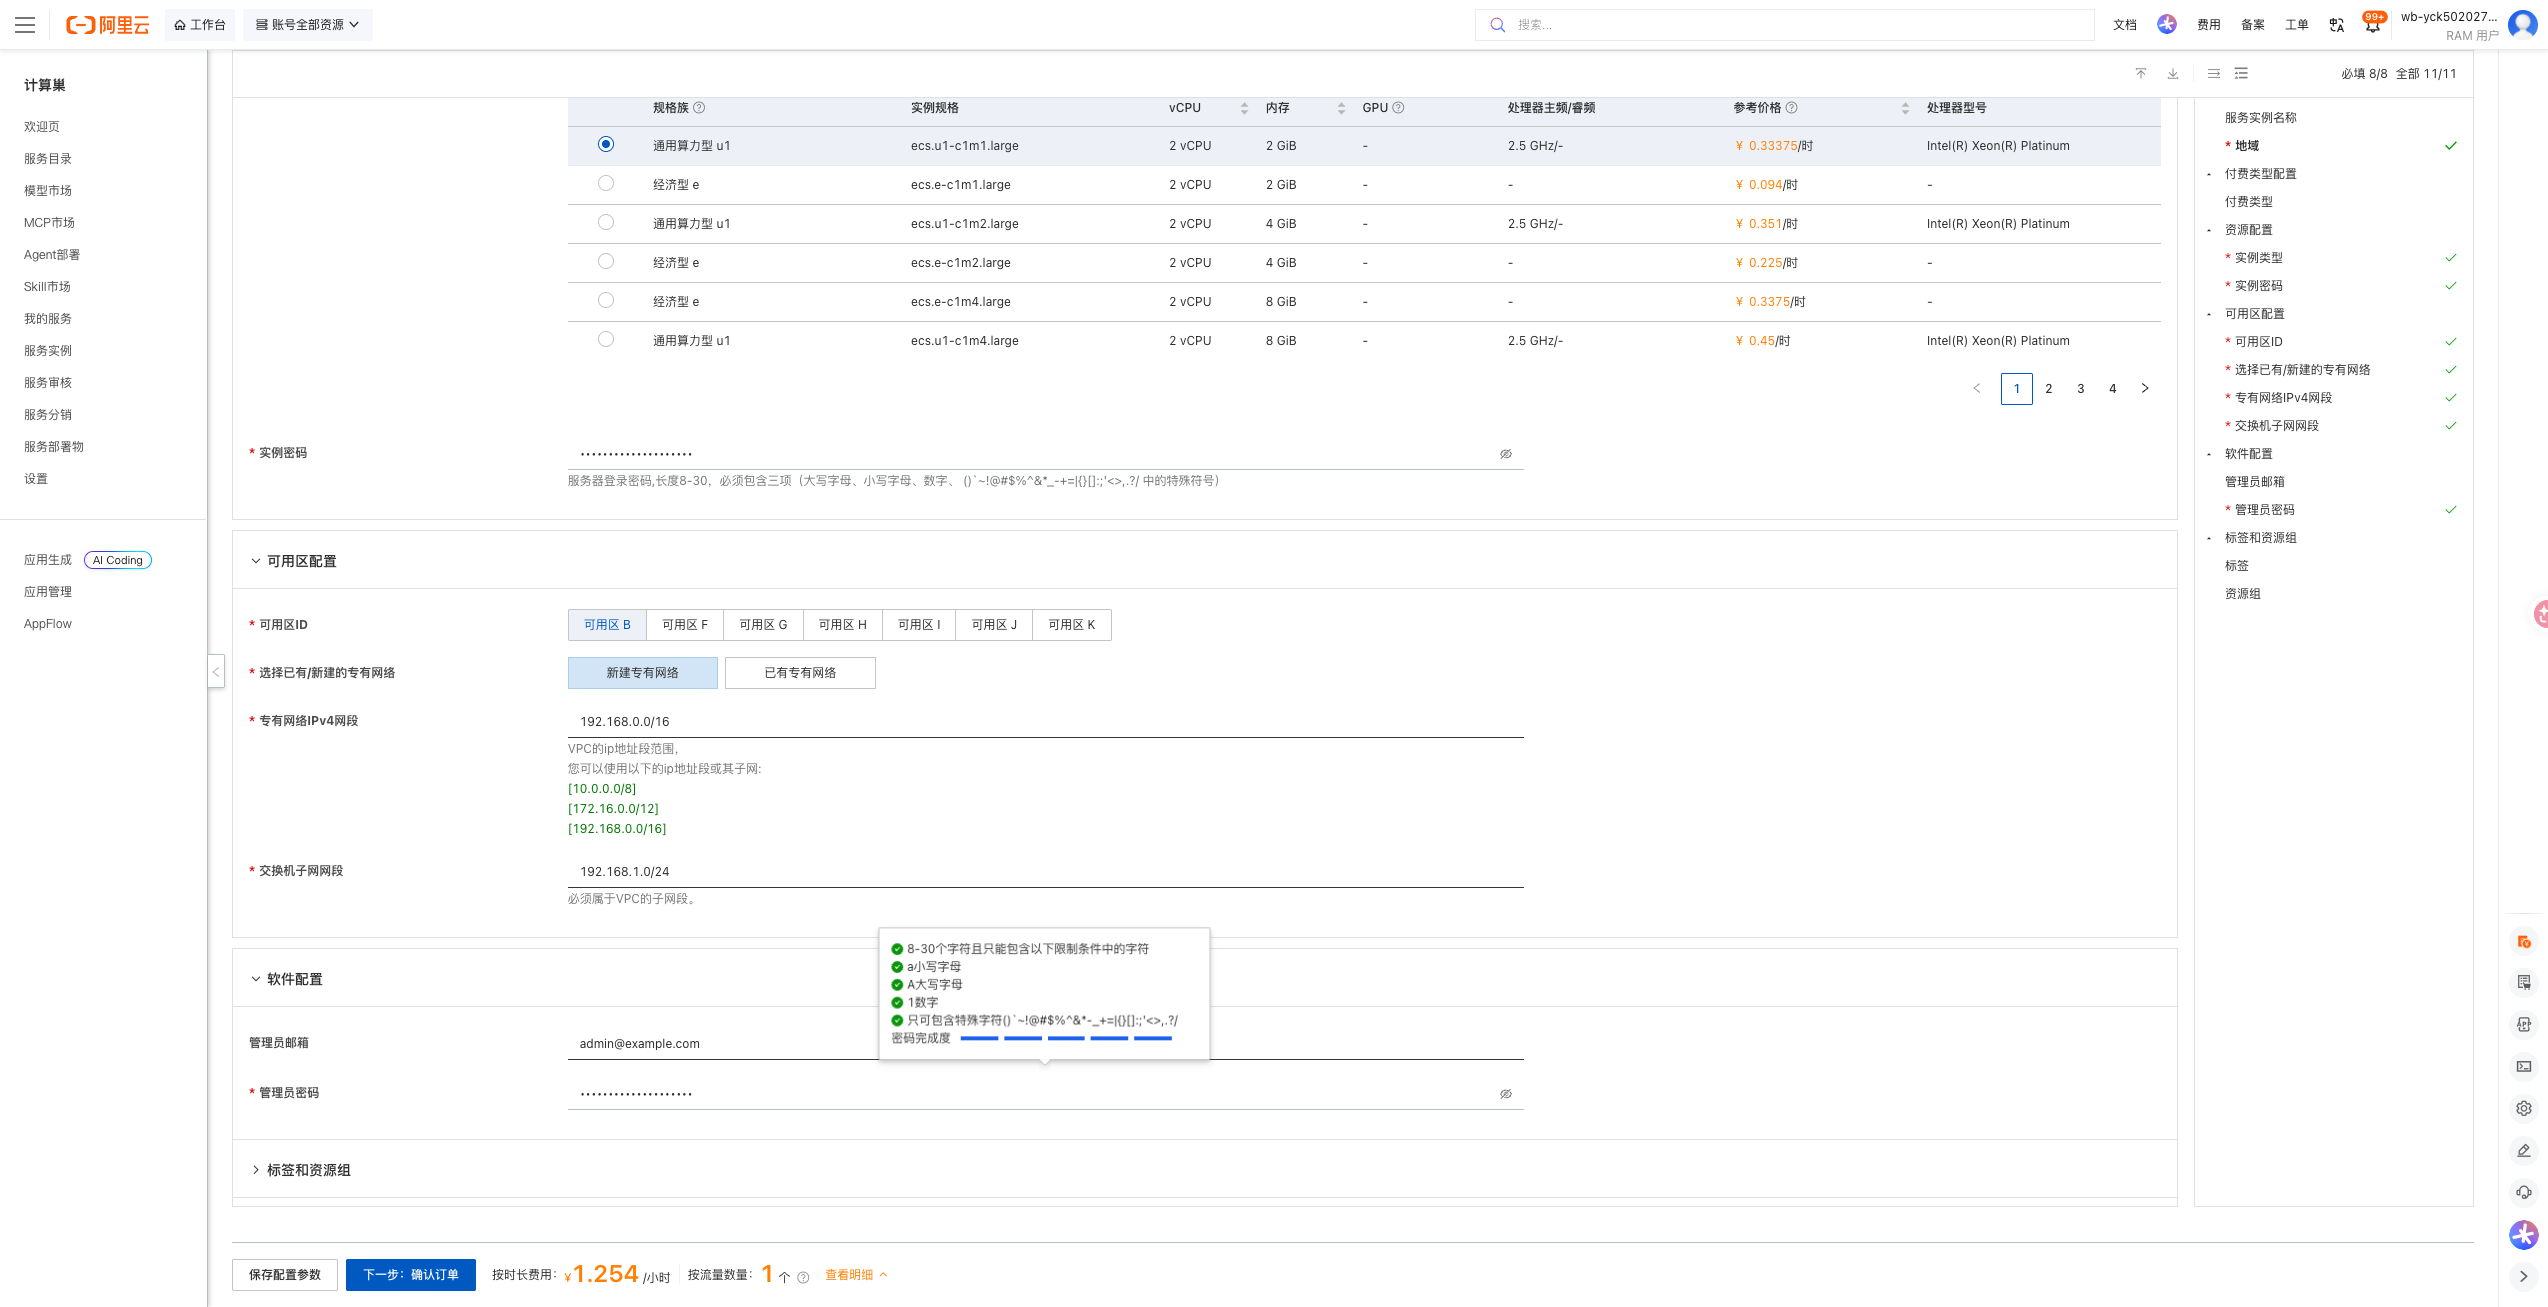
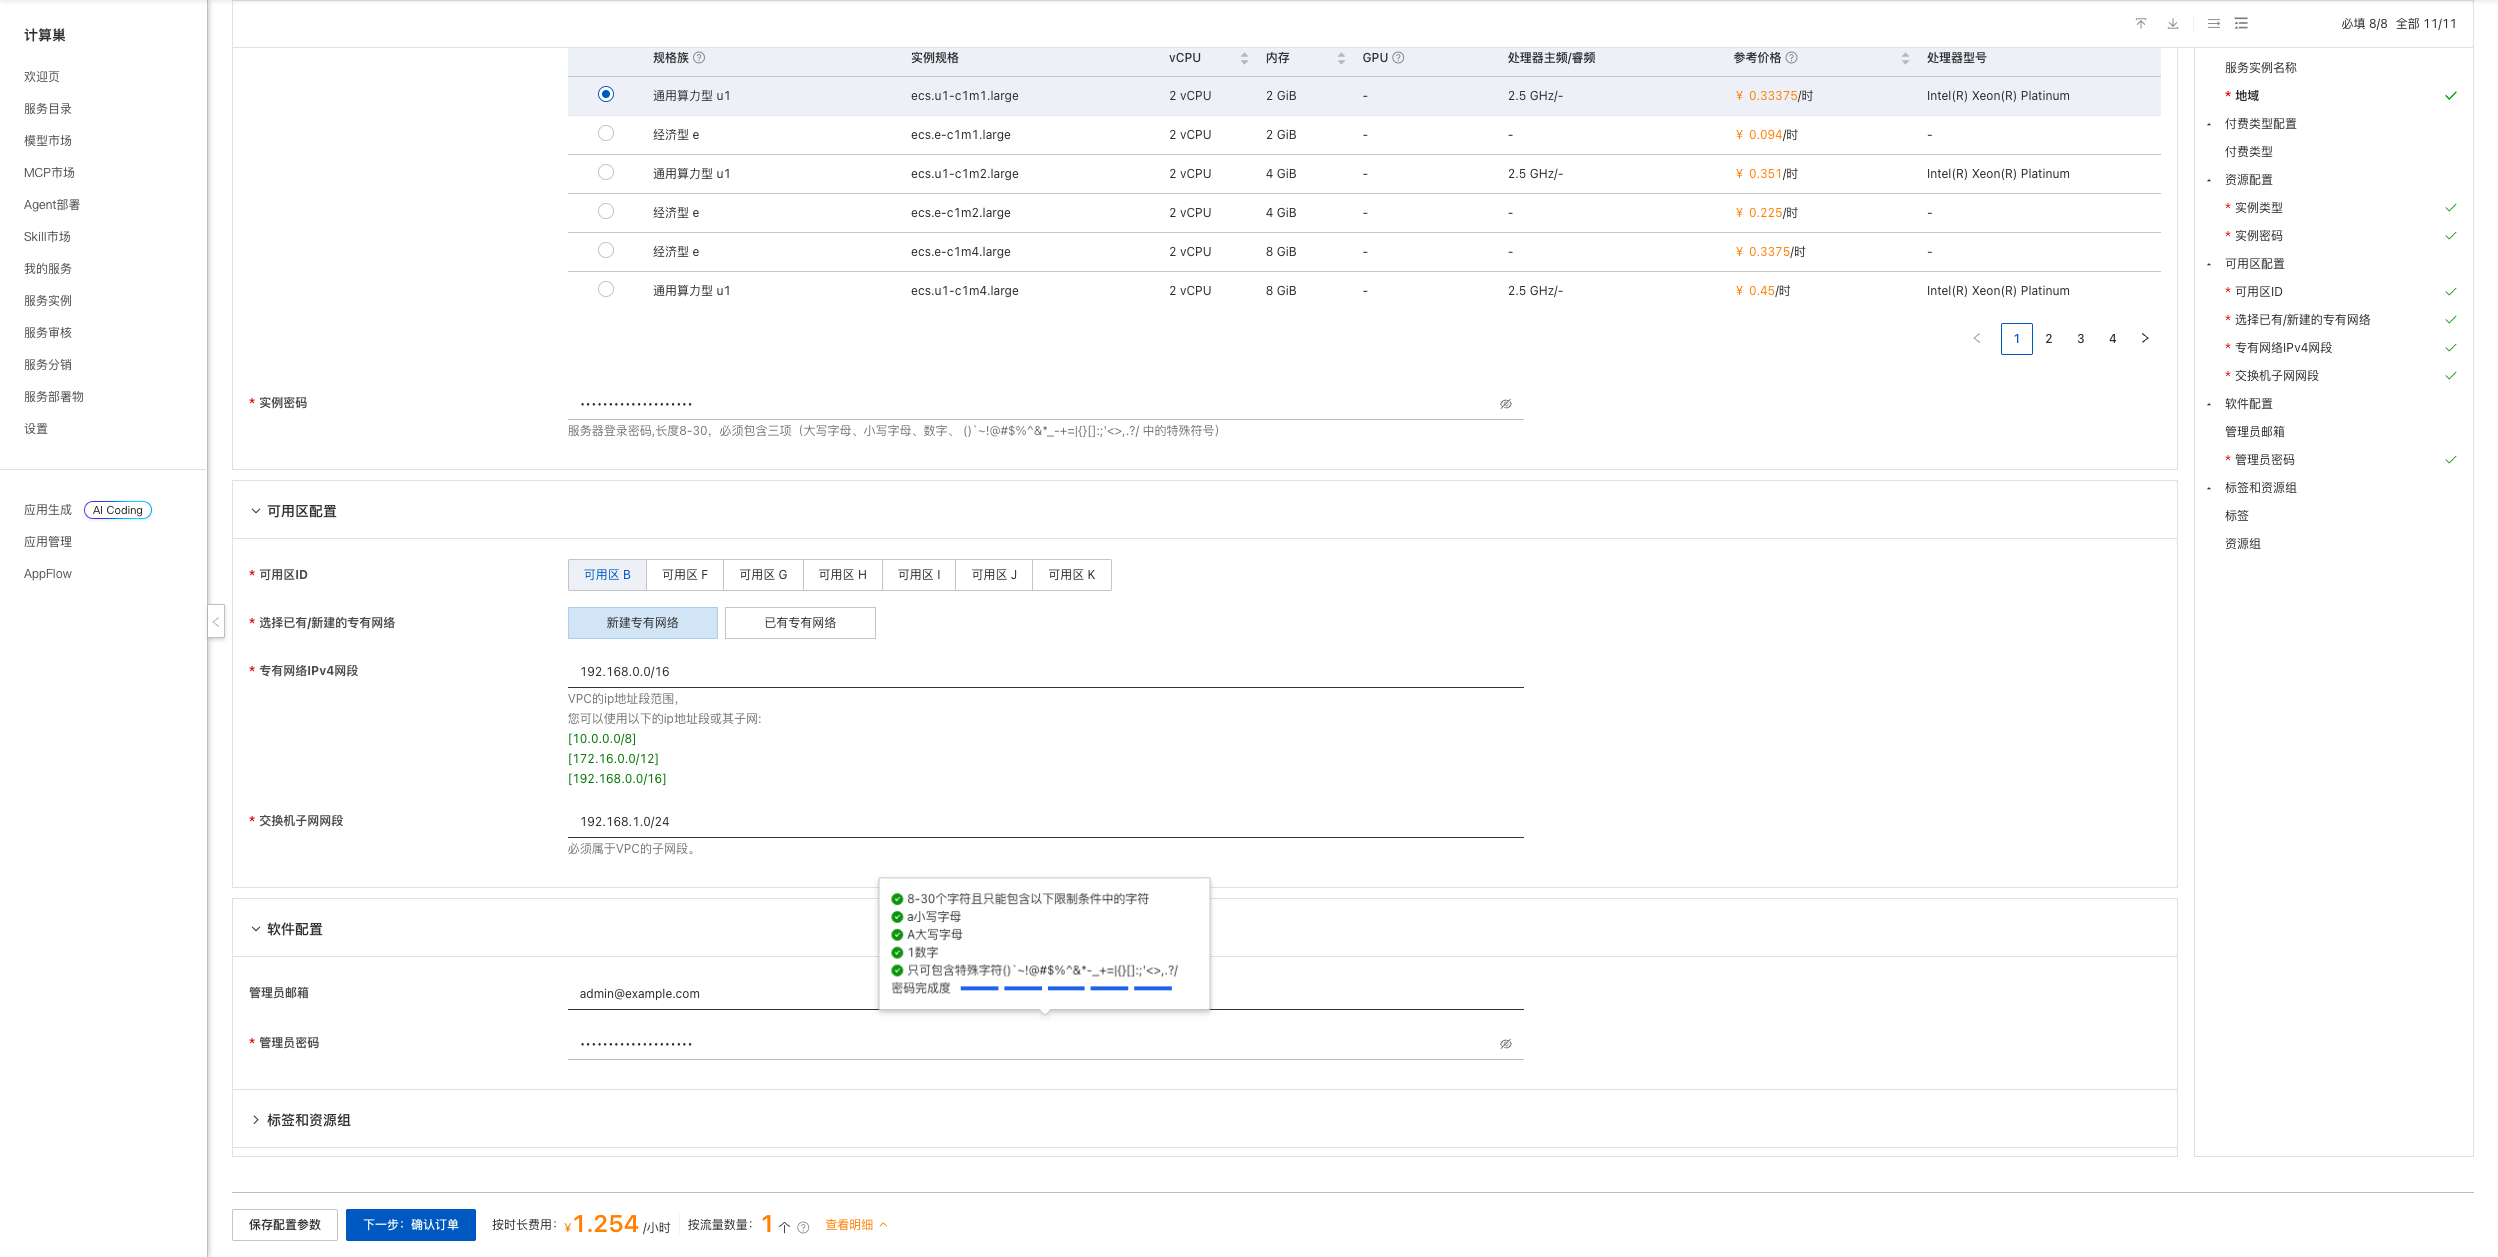
docs: simplify deployment guide and crop console screenshots

diff --git a/docs/index.md b/docs/index.md
@@ -14,41 +14,6 @@
 | 数据库与缓存 | PostgreSQL 17 + Redis 7 |
 | 实测部署耗时 | 约 2 分钟 |
 
-## 部署架构
-
-```text
-浏览器
-  │ HTTP 8080
-  ▼
-安全组
-  ▼
-ECS
-  └─ Docker Compose
-       ├─ NocoDB Web（8080）
-       ├─ NocoDB Worker
-       ├─ PostgreSQL 17
-       └─ Redis 7
-```
-
-计算巢通过 ROS 创建 VPC、交换机、安全组和 ECS，并通过云助手启动 Docker Compose。PostgreSQL 保存账号、Workspace、Base、表结构和记录等业务数据，Redis 为应用提供缓存与后台任务支持。
-
-## 部署前准备
-
-### 账号与权限
-
-请使用已完成实名认证的阿里云账号，并确保账号可以创建以下资源：
-
-- 计算巢服务实例；
-- ROS 资源栈；
-- ECS 实例、系统盘与安全组；
-- VPC 和交换机。
-
-使用 RAM 用户部署时，应由管理员授予上述资源的创建、查询和删除权限。
-
-### 计费说明
-
-部署会创建一台 ECS、200 GiB ESSD 系统盘并使用公网带宽。费用以创建页实时询价和阿里云账单为准。测试场景建议选择按量付费，并在验证结束后及时删除服务实例。
-
 ## 部署步骤
 
 ### 1. 打开创建页面
